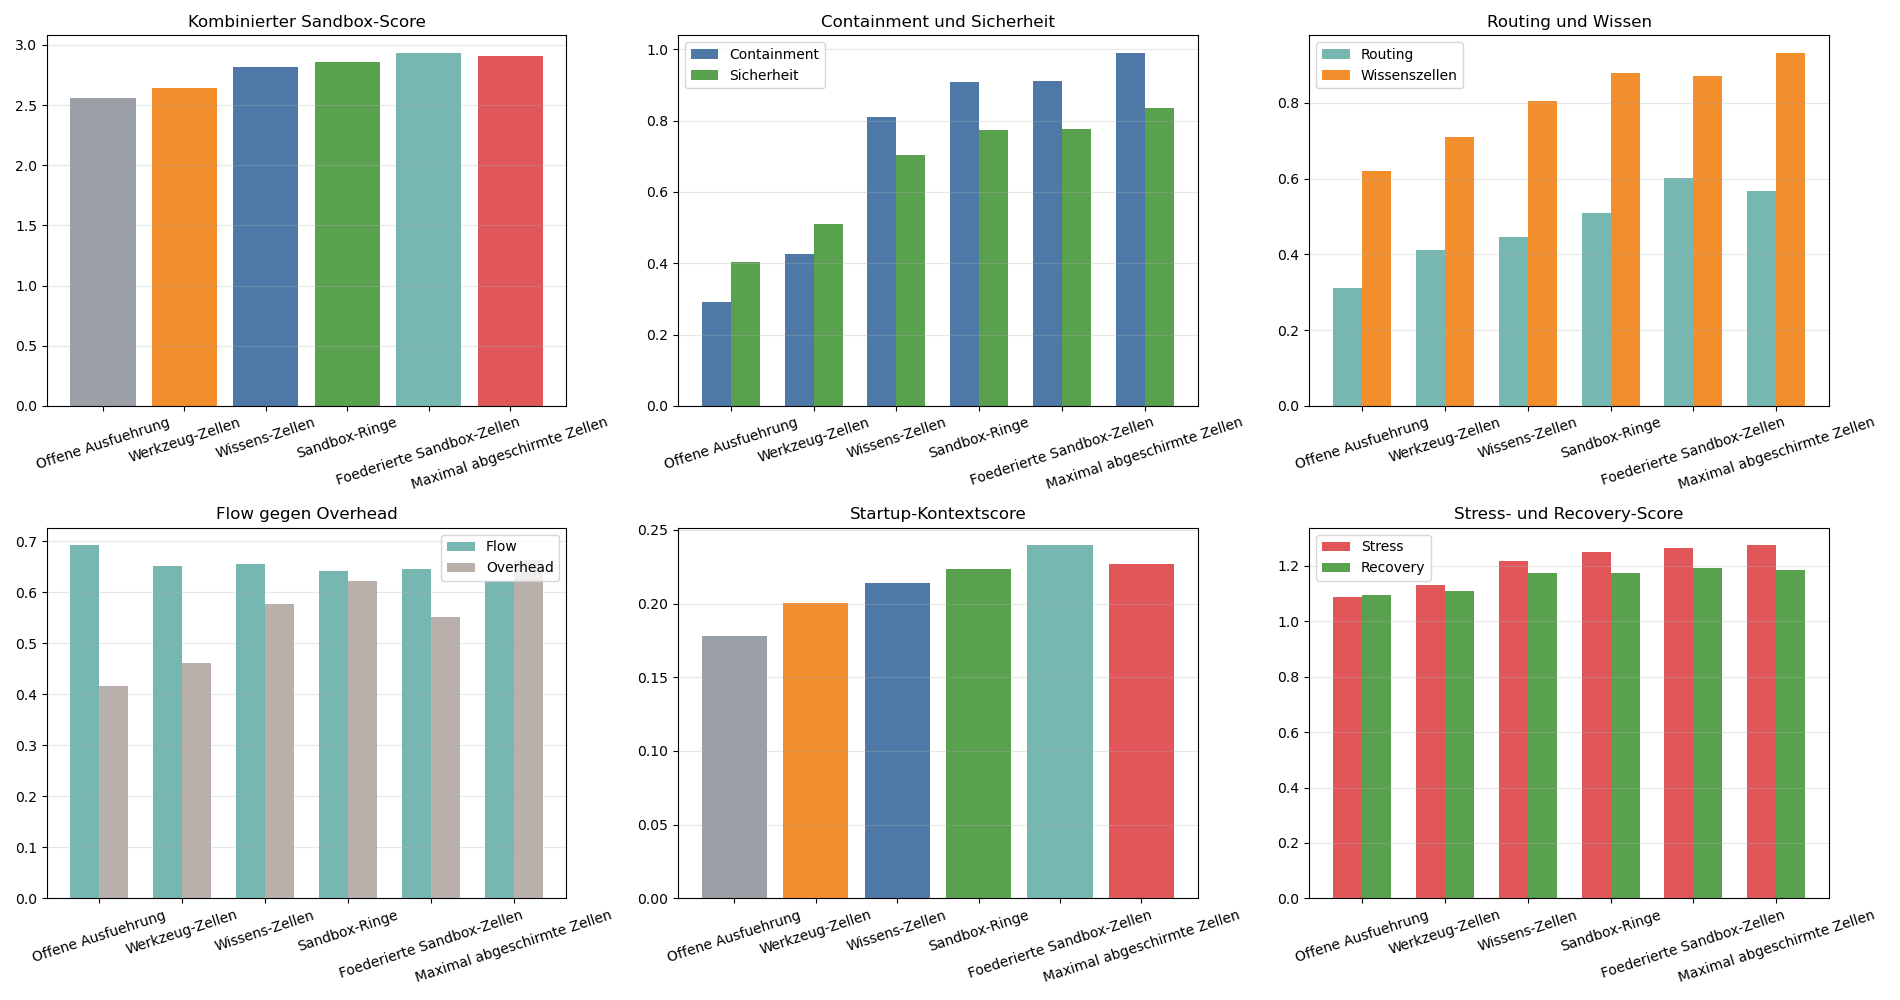
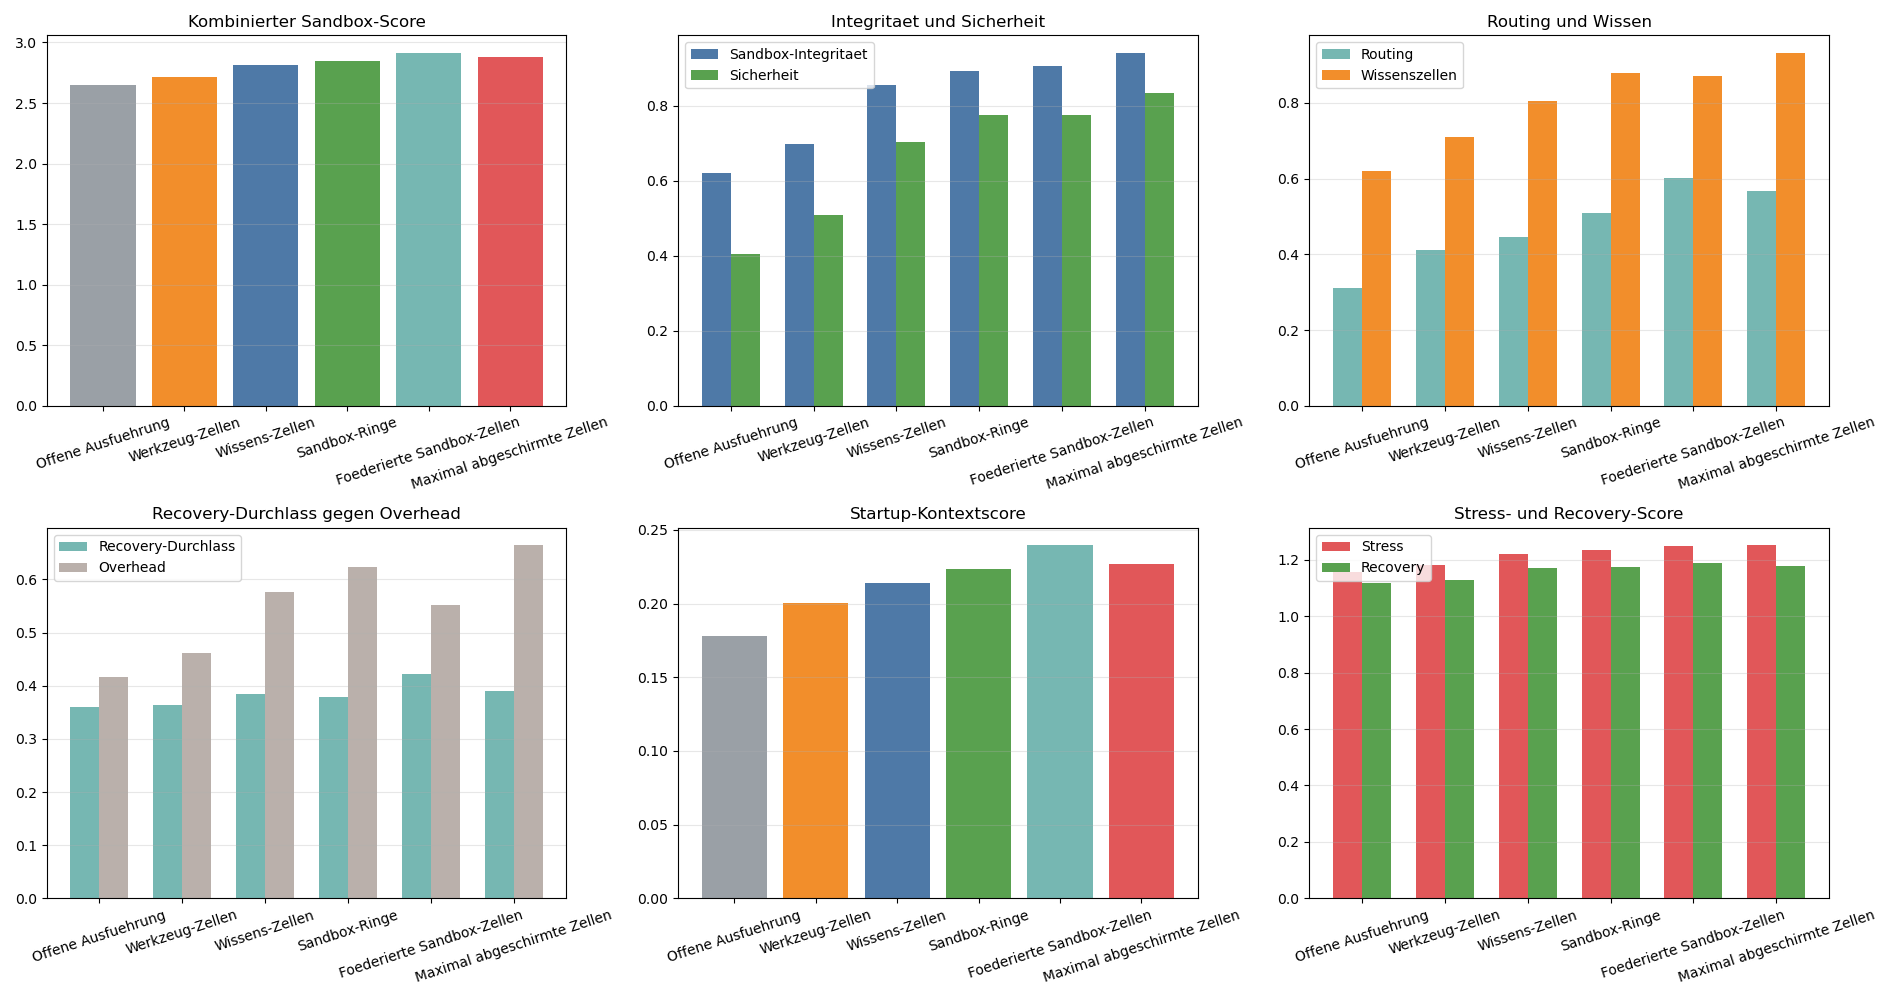
Refine sandbox cell integrity metrics

diff --git a/schwarm_sandbox_zellen.py b/schwarm_sandbox_zellen.py
@@ -325,6 +325,17 @@ def sandbox_metrics(config, result, params, profile):
             ]
         )
     )
+    projected_overhead = clamp01(
+        mittelwert(
+            [
+                normalize(config.get('resource_share_factor', 0.28), 0.28, 0.30),
+                cell_depth_score,
+                boundary_score,
+                1.0 - relay_score,
+                profile['bias']['overhead'],
+            ]
+        )
+    )
     operational_flow = clamp01(
         mittelwert(
             [
@@ -358,6 +369,28 @@ def sandbox_metrics(config, result, params, profile):
             ]
         )
     )
+    sandbox_integrity = clamp01(
+        mittelwert(
+            [
+                containment_strength,
+                sandbox_safety,
+                1.0 - workflow.get('misinformation_corruption_mean', 0.0),
+                1.0 - workflow.get('cluster_compromise_mean', 0.0),
+                knowledge_partition,
+            ]
+        )
+    )
+    recovery_permeability = clamp01(
+        mittelwert(
+            [
+                recovery_margin,
+                routing_integrity,
+                operational_flow,
+                workflow.get('sync_strength_mean', 0.0),
+                1.0 - projected_overhead,
+            ]
+        )
+    )
 
     return {
         'completion_rate': workflow.get('completion_rate', 0.0),
@@ -381,6 +414,8 @@ def sandbox_metrics(config, result, params, profile):
         'operational_flow': operational_flow,
         'sandbox_overhead': sandbox_overhead,
         'recovery_margin': recovery_margin,
+        'sandbox_integrity': sandbox_integrity,
+        'recovery_permeability': recovery_permeability,
     }
 
 
@@ -445,15 +480,14 @@ def context_score(kontext_name, result, agent_count):
     if kontext_name == 'stress':
         return (
             base
-            + 0.18 * metrics['containment_strength']
+            + 0.18 * metrics['sandbox_integrity']
             + 0.14 * metrics['sandbox_safety']
-            + 0.08 * metrics['routing_integrity']
-            - 0.12 * metrics['corruption_mean']
+            + 0.08 * metrics['recovery_permeability']
             - 0.10 * metrics['sandbox_overhead']
         )
     return (
         base
-        + 0.18 * metrics['recovery_margin']
+        + 0.18 * metrics['recovery_permeability']
         + 0.12 * metrics['containment_strength']
         + 0.08 * metrics['operational_flow']
         - 0.12 * failed_share
@@ -471,6 +505,8 @@ def summarize_runs(runs, profile, context_list, agent_count):
         'operational_flow': {},
         'sandbox_overhead': {},
         'recovery_margin': {},
+        'sandbox_integrity': {},
+        'recovery_permeability': {},
     }
 
     for kontext in context_list:
@@ -524,9 +560,9 @@ def main():
         summaries.append(summary)
         print(
             f"{summary['label']:<31} Score={summary['combined_score']:+.3f} | "
-            f"Contain={summary['containment_strength']['stress']:.2f} | "
+            f"Integritaet={summary['sandbox_integrity']['stress']:.2f} | "
             f"Routing={summary['routing_integrity']['operations']:.2f} | "
-            f"Flow={summary['operational_flow']['operations']:.2f}"
+            f"Recovery-Durchlass={summary['recovery_permeability']['recovery']:.2f}"
         )
 
     best = max(summaries, key=lambda item: item['combined_score'])
@@ -538,9 +574,9 @@ def main():
         f"Delta zur offenen Ausfuehrung {best['combined_score'] - baseline['combined_score']:+.3f}"
     )
     print(
-        f"Containment {best['containment_strength']['stress']:.2f}, "
+        f"Integritaet {best['sandbox_integrity']['stress']:.2f}, "
         f"Routing {best['routing_integrity']['operations']:.2f}, "
-        f"Recovery {best['recovery_margin']['recovery']:.2f}"
+        f"Recovery-Durchlass {best['recovery_permeability']['recovery']:.2f}"
     )
 
     labels = [item['label'] for item in summaries]
@@ -558,9 +594,9 @@ def main():
 
     axes[0, 1].bar(
         x - width / 2,
-        [item['containment_strength']['stress'] for item in summaries],
+        [item['sandbox_integrity']['stress'] for item in summaries],
         width,
-        label='Containment',
+        label='Sandbox-Integritaet',
         color='#4e79a7',
     )
     axes[0, 1].bar(
@@ -570,7 +606,7 @@ def main():
         label='Sicherheit',
         color='#59a14f',
     )
-    axes[0, 1].set_title('Containment und Sicherheit')
+    axes[0, 1].set_title('Integritaet und Sicherheit')
     axes[0, 1].set_xticks(x)
     axes[0, 1].set_xticklabels(labels, rotation=18)
     axes[0, 1].legend()
@@ -598,9 +634,9 @@ def main():
 
     axes[1, 0].bar(
         x - width / 2,
-        [item['operational_flow']['operations'] for item in summaries],
+        [item['recovery_permeability']['recovery'] for item in summaries],
         width,
-        label='Flow',
+        label='Recovery-Durchlass',
         color='#76b7b2',
     )
     axes[1, 0].bar(
@@ -610,7 +646,7 @@ def main():
         label='Overhead',
         color='#bab0ab',
     )
-    axes[1, 0].set_title('Flow gegen Overhead')
+    axes[1, 0].set_title('Recovery-Durchlass gegen Overhead')
     axes[1, 0].set_xticks(x)
     axes[1, 0].set_xticklabels(labels, rotation=18)
     axes[1, 0].legend()
